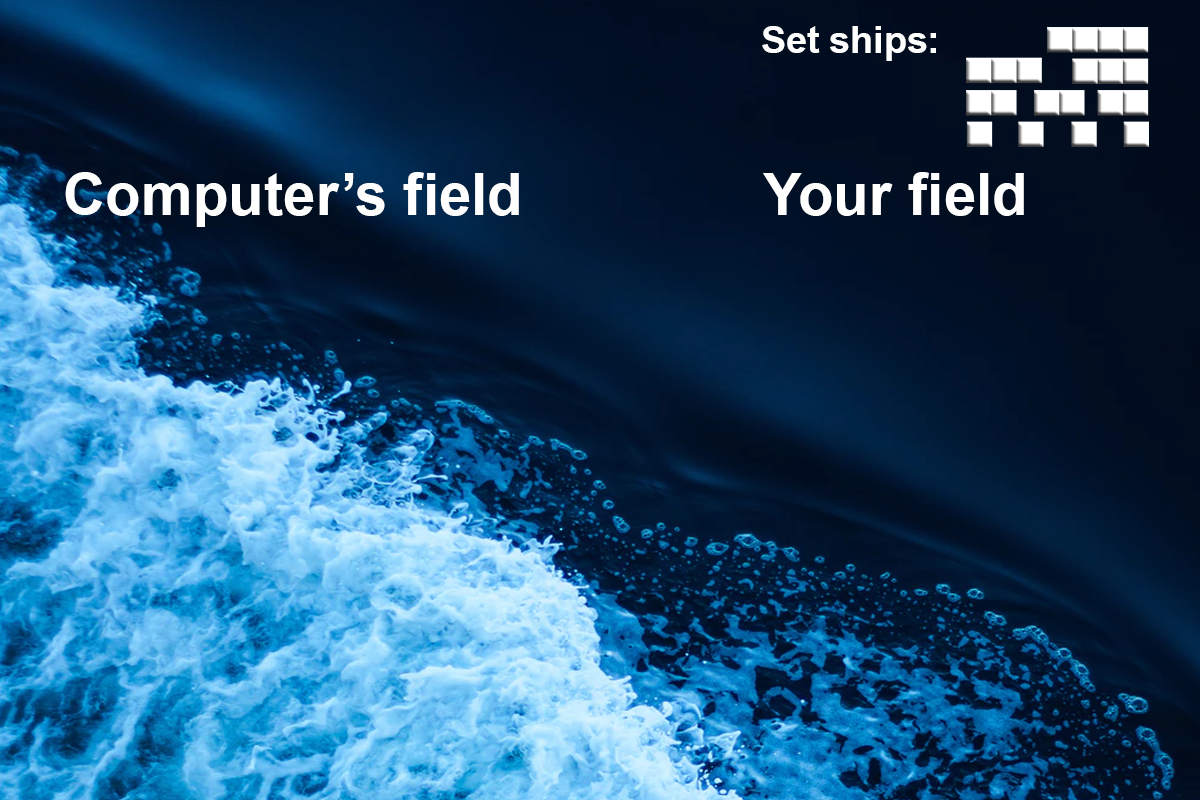
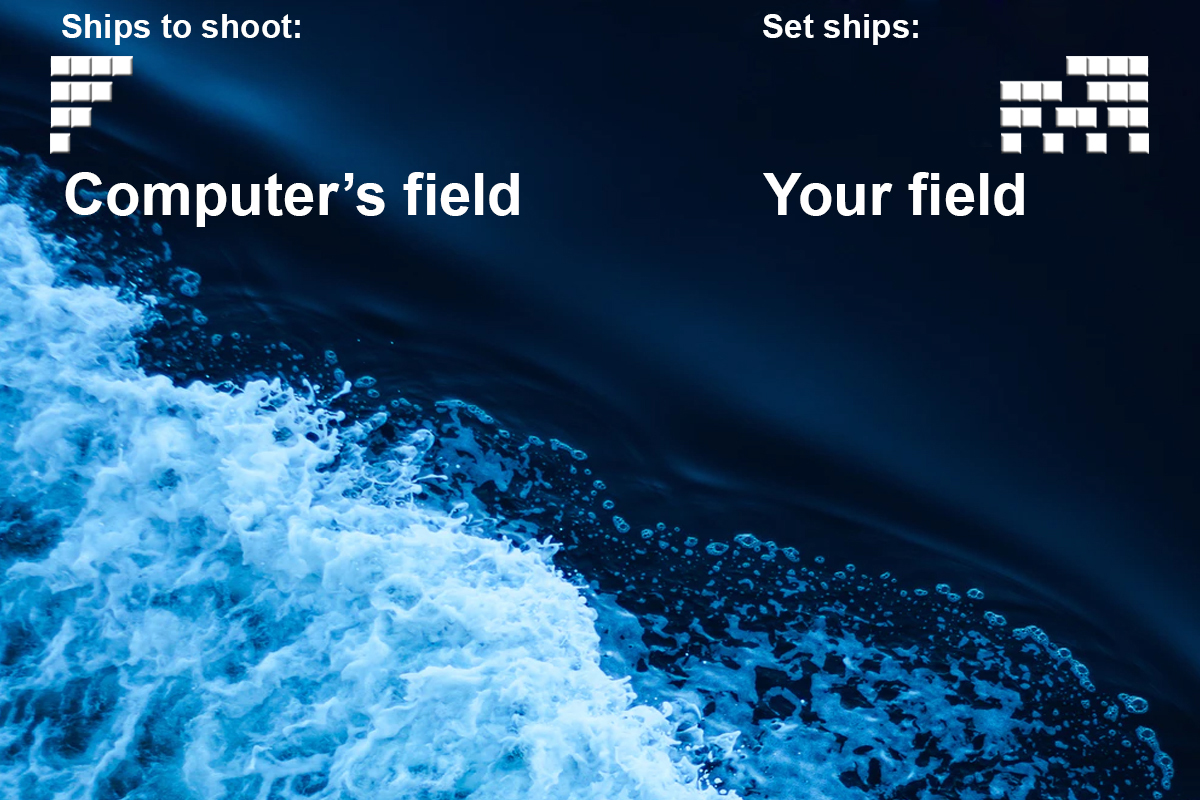
Display info with still unshot ships and fix computer shooting bug
The user now knows how many and which ships he / she still needs to shoot.

After last commit there was a bug in computer's shooting logic. It was fixed.

Changed region(s): [[0.8017, 0.0312, 0.9558, 0.1875], [0.0308, 0.0, 0.2467, 0.1875], [0.6167, 0.0, 0.7708, 0.0938]]

diff --git a/src/DisplayBoardsGui.cpp b/src/DisplayBoardsGui.cpp
@@ -1,4 +1,5 @@
 #include "../include/DisplayBoardsGui.hpp"
+#include <iostream>
 
 
 DisplayBoardsGui::DisplayBoardsGui(BoardComputer& computer, BoardUser& player, PlayGame& playGame)
@@ -11,15 +12,22 @@ DisplayBoardsGui::DisplayBoardsGui(BoardComputer& computer, BoardUser& player, P
     sf::Texture t;
     t.loadFromFile("images/tiles.jpg");
     sf::Sprite s(t);
+    sf::Event e;
+    sf::Font font;
+
+    if (!font.loadFromFile("fonts/Ubuntu-M.ttf"))
+        std::cout << "Error loading font\n" ;
+
+    int ship4 = 1;
+    int ship3 = 2;
+    int ship2 = 3;
+    int ship1 = 4;
     
     bool userSet = false;
-    int userShips = 0;    
-    sf::Event e;
+    int userShips = 0;   
+    int shipSize; 
 
-    do
-    {
-        displayFields(computer, player, app, s, w, sBackground);
-    } while (!(app.pollEvent(e)) && app.isOpen() );
+    displayFields(computer, player, app, s, w, sBackground, font, ship4, ship3, ship2, ship1);
 
     while (app.isOpen() && !( playGame.checkIfWon(computer) || playGame.checkIfWon(player) ))
     {
@@ -37,7 +45,13 @@ DisplayBoardsGui::DisplayBoardsGui(BoardComputer& computer, BoardUser& player, P
                 if(x<12 && userSet == true)
                 {
                     if (e.mouseButton.button == sf::Mouse::Left) 
-                        playGame.shootingSession(x, y, computer, player);
+                    {
+                        playGame.shootingSession(x, y, computer, player, shipSize);
+                        if(shipSize == 4) ship4--;
+                        if(shipSize == 3) ship3--;
+                        if(shipSize == 2) ship2--;
+                        if(shipSize == 1) ship1--;
+                    }
                 }
                 else if(x>12 && userSet == false)
                     if (e.mouseButton.button == sf::Mouse::Left) 
@@ -47,11 +61,10 @@ DisplayBoardsGui::DisplayBoardsGui(BoardComputer& computer, BoardUser& player, P
                             if (userShips == 20)
                                 userSet = true;
                         }
-            
-                displayFields(computer, player, app, s, w, sBackground);
+                displayFields(computer, player, app, s, w, sBackground, font, ship4, ship3, ship2, ship1);
                 if (playGame.checkIfWon(computer)) 
                     alert("You won!");
-                if (playGame.checkIfWon(player)) 
+                else if (playGame.checkIfWon(player)) 
                     alert("You lost!");
             }
         }
@@ -79,15 +92,15 @@ void DisplayBoardsGui::alert(std::string text)
             if (e.type == sf::Event::Closed)
                 alrt.close();
         }
-
         alrt.display();
     }
 }
 
-void DisplayBoardsGui::displayFields(BoardComputer& computer, BoardUser& player, sf::RenderWindow& app, sf::Sprite& s, int w, sf::Sprite sBackground)
+void DisplayBoardsGui::displayFields(BoardComputer& computer, BoardUser& player, sf::RenderWindow& app, sf::Sprite& s, int w, sf::Sprite sBackground, sf::Font font, int ship4, int ship3, int ship2, int ship1)
 {
     app.clear(sf::Color::White);
     app.draw(sBackground);
+    displayShipsCounter(app, font, ship4, ship3, ship2, ship1);
 
     for (int i=1;i<=10;i++)
         for (int j=1;j<=10;j++)
@@ -118,4 +131,21 @@ void DisplayBoardsGui::displayFields(BoardComputer& computer, BoardUser& player,
         }
         
     app.display();
+}
+
+void DisplayBoardsGui::displayShipsCounter(sf::RenderWindow& app, sf::Font font, int ship4, int ship3, int ship2, int ship1)
+{
+    app.pushGLStates();
+
+    std::ostringstream ss;
+    ss << ship4 << " \n" << ship3 << " \n" << ship2 << " \n" << ship1 << std::endl;
+    sf::Text atext;
+    atext.setFont(font);
+    atext.setCharacterSize(23);
+    atext.setFillColor(sf::Color::White);
+    atext.setPosition(150,52);
+    atext.setString(ss.str());
+
+    app.draw(atext);
+    app.popGLStates();
 }

diff --git a/src/ShootingActionComputer.cpp b/src/ShootingActionComputer.cpp
@@ -36,8 +36,8 @@ std::pair <int, int> ShootingActionComputer::checkHorizontal(Board& board)
 {
     for(auto elem : _unshotShip)
     {
-        if (board.getFieldInfo(elem.first -1, elem.second) <= 1) return std::make_pair(elem.first -1, elem.second);
-        if (board.getFieldInfo(elem.first +1, elem.second) <= 1) return std::make_pair(elem.first +1, elem.second);
+        if (board.getFieldInfo(elem.first -1, elem.second) <= 1 && elem.first -1 != 0                       ) return std::make_pair(elem.first -1, elem.second);
+        if (board.getFieldInfo(elem.first +1, elem.second) <= 1 && elem.first +1 != board.getFieldSize()-1  ) return std::make_pair(elem.first +1, elem.second);
     }
     return std::make_pair(-1, -1);
 }
@@ -46,8 +46,8 @@ std::pair <int, int> ShootingActionComputer::checkVertical(Board& board)
 {
     for(auto elem : _unshotShip)
     {
-        if (board.getFieldInfo(elem.first, elem.second -1) <= 1) return std::make_pair(elem.first, elem.second -1);
-        if (board.getFieldInfo(elem.first, elem.second +1) <= 1) return std::make_pair(elem.first, elem.second +1);
+        if (board.getFieldInfo(elem.first, elem.second -1) <= 1 && elem.second -1 != 0                      ) return std::make_pair(elem.first, elem.second -1);
+        if (board.getFieldInfo(elem.first, elem.second +1) <= 1 && elem.second +1 != board.getFieldSize()-1 ) return std::make_pair(elem.first, elem.second +1);
     }
     return std::make_pair(-1, -1);
 }

diff --git a/src/PlayGame.cpp b/src/PlayGame.cpp
@@ -20,22 +20,24 @@ bool PlayGame::checkIfWon(Board board)
     return false;
 }
 
-void PlayGame::shootingSession(int x, int y, BoardComputer& computerBoard, Board& playerBoard)
+void PlayGame::shootingSession(int x, int y, BoardComputer& computerBoard, Board& playerBoard, int& shipSize)
 {
+    shipSize = 0;
     if(computerBoard.getFieldInfo(x,y)<=1)
     {
         computerBoard.shoot(x,y);
         if(computerBoard.getFieldInfo(x,y) == 2) 
-            if(computerBoard.isShipShot(x, y))
+            if(computerBoard.isShipShot(x, y, shipSize))
                 computerBoard.crossFields();
         computerBoard.setVisibleField(x,y,computerBoard.getFieldInfo(x, y));
 
+        int myShipSize;
         std::pair <int, int> shipPos = _ShootingActionComputer.computerShot(playerBoard);
         std::this_thread::sleep_for(std::chrono::milliseconds(300));
         playerBoard.shoot(shipPos.first, shipPos.second);
         if(playerBoard.getFieldInfo(shipPos.first, shipPos.second) == 2) 
         {
-            if(playerBoard.isShipShot(shipPos.first, shipPos.second))
+            if(playerBoard.isShipShot(shipPos.first, shipPos.second, myShipSize))
                     _ShootingActionComputer.clearShotShip();
             else
                 _ShootingActionComputer.addUnshotShip(std::make_pair(shipPos.first, shipPos.second));

diff --git a/include/DisplayBoardsGui.hpp b/include/DisplayBoardsGui.hpp
@@ -5,14 +5,16 @@
 #include "../include/PlayGame.hpp"
 
 #include <SFML/Graphics.hpp>
-
+#include <sstream>
 
 
 class DisplayBoardsGui
 {
     int w = 50; 
     void alert(std::string text);
-    void displayFields(BoardComputer& computer, BoardUser& player, sf::RenderWindow& app, sf::Sprite& s, int w, sf::Sprite sBackground);
+    void displayFields(BoardComputer& computer, BoardUser& player, sf::RenderWindow& app, sf::Sprite& s, int w, sf::Sprite sBackground, sf::Font font, int ship4, int ship3, int ship2, int ship1);
+    void displayShipsCounter(sf::RenderWindow& app, sf::Font font, int ship4, int ship3, int ship2, int ship1);
 public:
     DisplayBoardsGui(BoardComputer& computer, BoardUser& player, PlayGame& playGame);
+    
 };

diff --git a/src/Board.cpp b/src/Board.cpp
@@ -75,13 +75,14 @@ void Board::checkSurroundingForShotShips(int x, int y, std::vector<std::pair<int
     checkSurroundingForShotShip(x  , y-1, ship);
 }
 
-bool Board::isShipShot(int x, int y){
+bool Board::isShipShot(int x, int y, int& shipSize){
     
     std::vector<std::pair<int, int>> ship{std::make_pair(x,y)};
     checkSurroundingForShotShips(x,y, ship);
     for(std::pair<int, int> elem : ship)
         if(!checkSurroundingForUnshotShip(elem.first, elem.second))
             return false;
+    shipSize = ship.size();
     fillSuroundingOfShotShip(ship);
     return true; 
 }

diff --git a/include/PlayGame.hpp b/include/PlayGame.hpp
@@ -15,5 +15,5 @@ class PlayGame
 public:
     PlayGame(ShootingActionComputer& ShootingActionComputer);
     bool checkIfWon(Board board);
-    void shootingSession(int x, int y, BoardComputer& computerBoard, Board& playerBoard);
+    void shootingSession(int x, int y, BoardComputer& computerBoard, Board& playerBoard, int& shipSize);
 };

diff --git a/include/Board.hpp b/include/Board.hpp
@@ -19,7 +19,7 @@ public:
     int getFieldSize();
     void SetField(int x, int y, int val);
     bool shoot(int x, int y);
-    bool isShipShot(int x, int y);
+    bool isShipShot(int x, int y, int& shipSize);
     
 };
     

diff --git a/ReadMe.md b/ReadMe.md
@@ -26,14 +26,14 @@ Under Linux you can use attached Makefile.
 - [x] refactor: implement SOLID principles
 - [x] add Unit Tests
 - [ ] add Makefie for Unit tests
-- [ ] display info with still unshot ships
+- [x] display info with still unshot ships
 
 ## Images:
 <p align="center">
 <br>Start screen:<br>
-  <img src="https://user-images.githubusercontent.com/25400249/55116953-64c8e400-50e9-11e9-9b90-c24006d77cbe.png" width="500"/>
+  <img src="https://user-images.githubusercontent.com/25400249/55293824-d7dc9e00-53fa-11e9-9a14-1d1b315d4ef6.png" width="500"/>
 <br>When you won:<br>
-  <img src="https://user-images.githubusercontent.com/25400249/55235324-964ac800-522d-11e9-86f0-61004968735f.png" width="500"/>
+  <img src="https://user-images.githubusercontent.com/25400249/55293823-d7dc9e00-53fa-11e9-81aa-a22019287e35.png" width="500"/>
 <br>When you lost:<br>
-  <img src="https://user-images.githubusercontent.com/25400249/55235329-98ad2200-522d-11e9-9274-5ca8b31e7850.png" width="500"/>
+  <img src="https://user-images.githubusercontent.com/25400249/55293825-d7dc9e00-53fa-11e9-81cf-7a010430d0db.png" width="500"/>
 </p>
